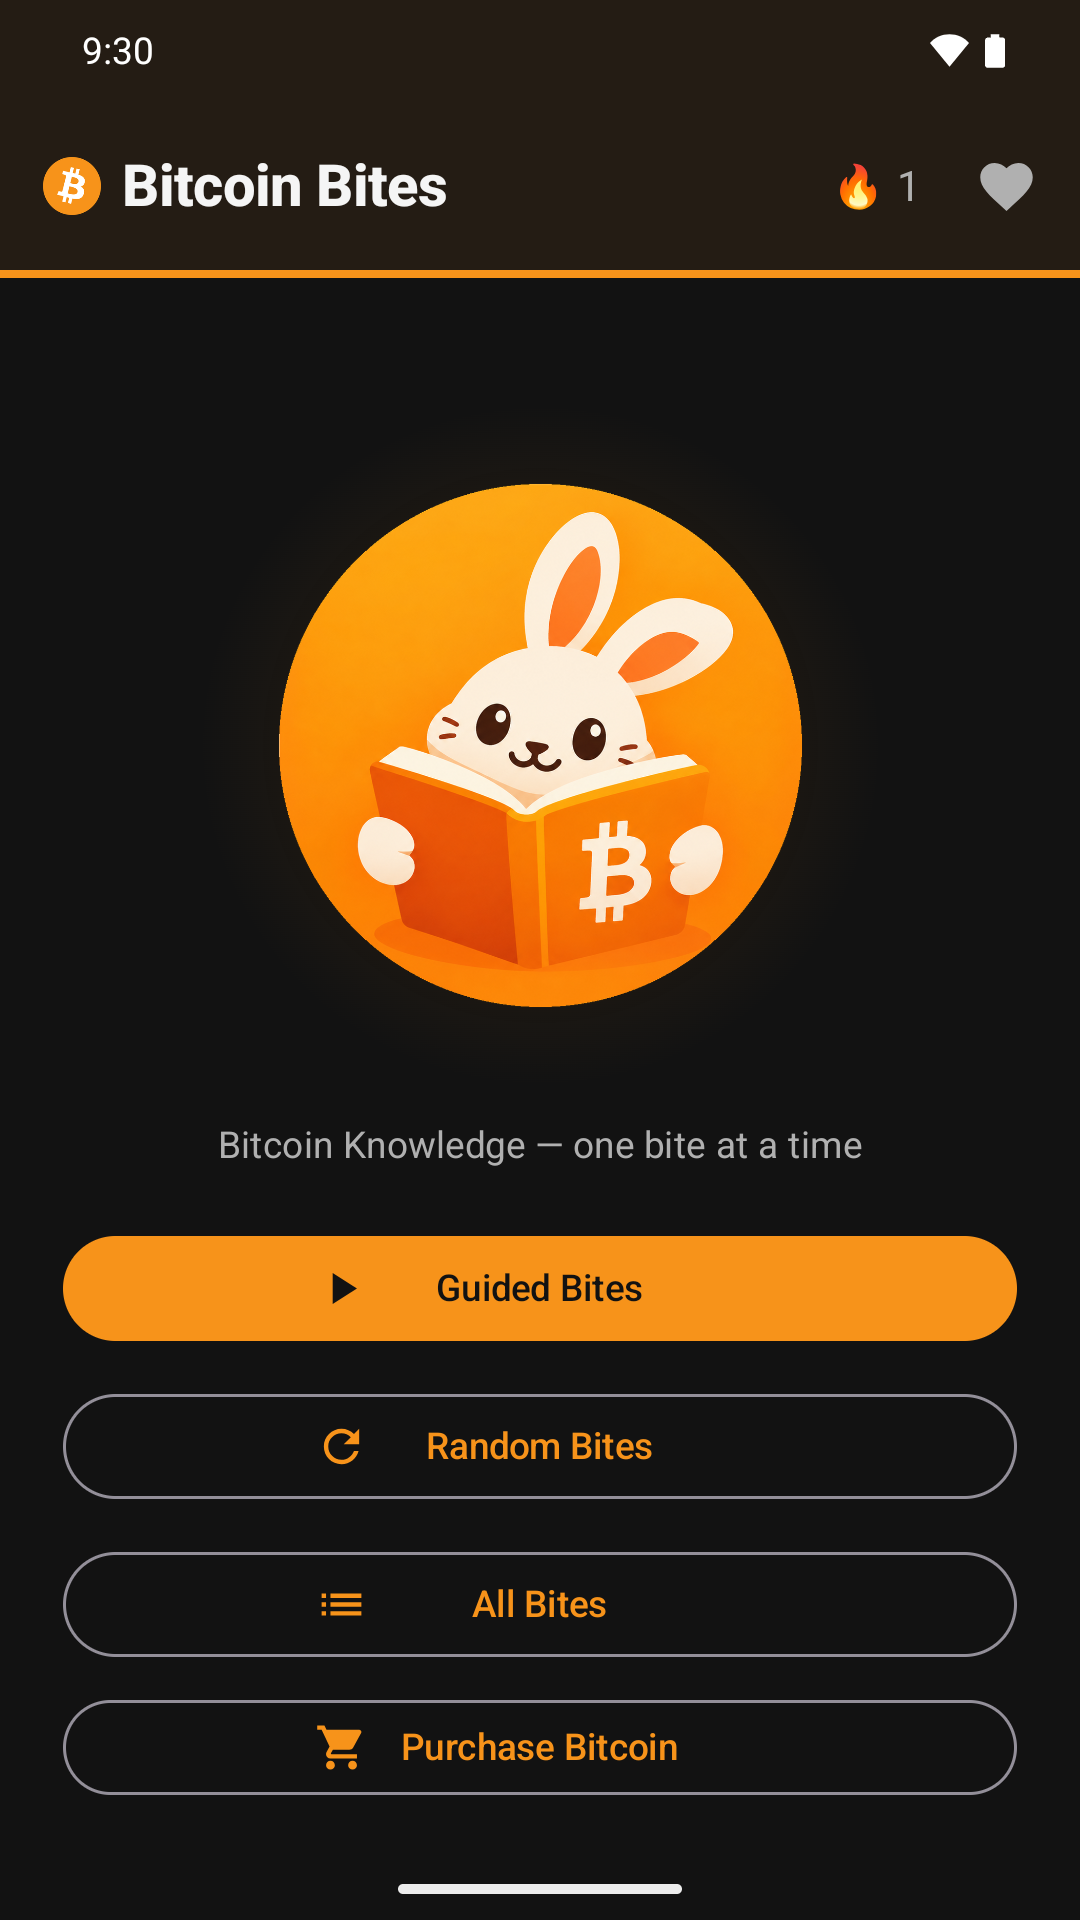
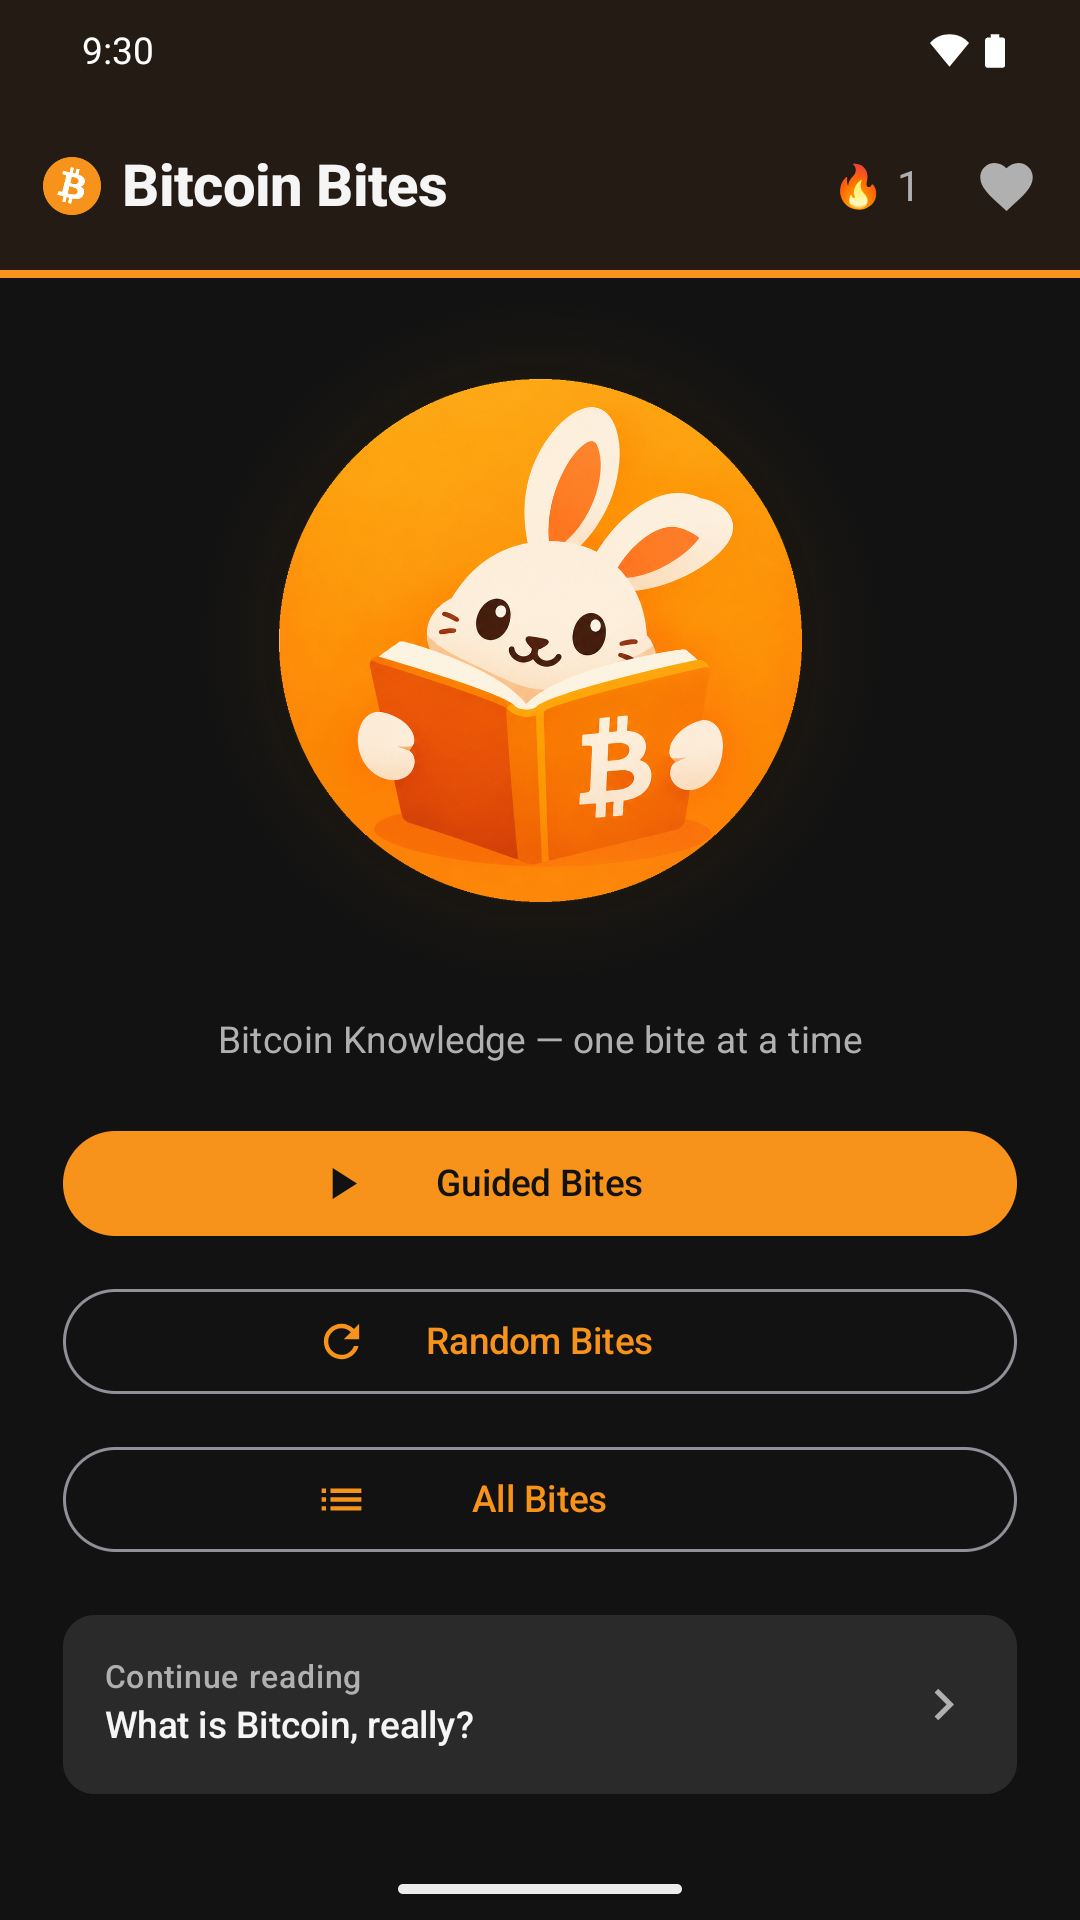
Remove the placeholder Purchase Bitcoin entry point; make home scroll
The home screen's "Purchase Bitcoin" button navigated to a screen
reading "Exchange links are coming soon." A prominent button leading
nowhere is squarely what Play's minimum-functionality policy rejects,
and the label invites financial-services scrutiny for a feature that
does nothing yet. Removed the button, its route and the screen rather
than leaving them unreachable; git has them for when the referral
links actually exist.

Removing it exposed a pre-existing bug: the home screen was a fixed
Column with no scrolling, so the "Continue reading" card was clipped
and unreachable on any viewport shorter than the content. It only
looked fine because the test emulator is unusually tall. With
minSdk 24 and display/font scaling, plenty of real devices would hit
it. Made the column scrollable.

Retook the home screenshot to match.

Changed region(s): [[0.0611, 0.1875, 0.9472, 0.9375], [0.9167, 0.8125, 0.9472, 0.8438], [0.8556, 0.875, 0.8861, 0.9062]]

diff --git a/androidApp/src/main/kotlin/dev/emmett/bitcoinfacts/android/ui/HomeScreen.kt b/androidApp/src/main/kotlin/dev/emmett/bitcoinfacts/android/ui/HomeScreen.kt
@@ -16,14 +16,15 @@ import androidx.compose.foundation.layout.height
 import androidx.compose.foundation.layout.padding
 import androidx.compose.foundation.layout.size
 import androidx.compose.foundation.layout.width
+import androidx.compose.foundation.rememberScrollState
 import androidx.compose.foundation.shape.RoundedCornerShape
+import androidx.compose.foundation.verticalScroll
 import androidx.compose.material.icons.Icons
 import androidx.compose.material.icons.filled.Favorite
 import androidx.compose.material.icons.filled.KeyboardArrowRight
 import androidx.compose.material.icons.filled.List
 import androidx.compose.material.icons.filled.PlayArrow
 import androidx.compose.material.icons.filled.Refresh
-import androidx.compose.material.icons.filled.ShoppingCart
 import androidx.compose.material3.Button
 import androidx.compose.material3.ExperimentalMaterial3Api
 import androidx.compose.material3.Icon
@@ -56,9 +57,8 @@ import dev.emmett.bitcoinfacts.shared.history.JourneyMode
  * Task 12.1: new nav-graph start destination, offering "Guided Bites" (an
  * unfiltered swipeable journey in canonical `order` - the order facts were
  * authored in, chapter by chapter), "Random Bites" (the same swipeable
- * journey, shuffled), "All Bites" (the existing list screen), and "Purchase
- * Bitcoin" (a placeholder page for exchange referral links, added later) as
- * distinct entry points, in that display order.
+ * journey, shuffled) and "All Bites" (the existing list screen) as distinct
+ * entry points, in that display order.
  */
 @OptIn(ExperimentalMaterial3Api::class)
 @Composable
@@ -69,7 +69,6 @@ fun HomeScreen(
     onGuidedJourney: () -> Unit,
     onRandomJourney: () -> Unit,
     onOpenFavorites: () -> Unit,
-    onPurchaseBitcoin: () -> Unit,
 ) {
     val continueFact = remember {
         container.journeyProgressStore.lastFactId(JourneyMode.GUIDED)?.let { container.factRepository.findById(it) }
@@ -94,6 +93,10 @@ fun HomeScreen(
             modifier = Modifier
                 .fillMaxSize()
                 .padding(padding)
+                // The mascot plus four entry points overflow a short screen (or a
+                // normal one at a large display/font scale), which silently cut off
+                // the "Continue reading" card with no way to reach it.
+                .verticalScroll(rememberScrollState())
                 .padding(24.dp),
             verticalArrangement = Arrangement.Top,
             horizontalAlignment = Alignment.CenterHorizontally,
@@ -124,10 +127,6 @@ fun HomeScreen(
             Spacer(modifier = Modifier.height(12.dp))
             OutlinedButton(onClick = onBrowseAll, modifier = Modifier.fillMaxWidth()) {
                 HomeButtonContent(Icons.Filled.List, "All Bites")
-            }
-            Spacer(modifier = Modifier.height(12.dp))
-            OutlinedButton(onClick = onPurchaseBitcoin, modifier = Modifier.fillMaxWidth()) {
-                HomeButtonContent(Icons.Filled.ShoppingCart, "Purchase Bitcoin")
             }
 
             if (continueFact != null) {

diff --git a/androidApp/src/main/kotlin/dev/emmett/bitcoinfacts/android/MainActivity.kt b/androidApp/src/main/kotlin/dev/emmett/bitcoinfacts/android/MainActivity.kt
@@ -27,7 +27,6 @@ import dev.emmett.bitcoinfacts.android.ui.FactListScreen
 import dev.emmett.bitcoinfacts.android.ui.FavoritesScreen
 import dev.emmett.bitcoinfacts.android.ui.HomeScreen
 import dev.emmett.bitcoinfacts.android.ui.JourneyScreen
-import dev.emmett.bitcoinfacts.android.ui.PurchaseBitcoinScreen
 import dev.emmett.bitcoinfacts.android.ui.theme.BitcoinFactsTheme
 import dev.emmett.bitcoinfacts.shared.history.JourneyMode
 import dev.emmett.bitcoinfacts.taxonomy.Category
@@ -37,7 +36,6 @@ private const val ROUTE_LIST = "list"
 private const val ROUTE_FAVORITES = "favorites"
 private const val ROUTE_DETAIL = "detail/{factId}"
 private const val ROUTE_JOURNEY = "journey"
-private const val ROUTE_PURCHASE = "purchase"
 
 class MainActivity : ComponentActivity() {
 
@@ -131,7 +129,6 @@ private fun BitcoinFactsNavHost(container: AppContainer, deepLinkFactId: String?
                     navController.navigate(ROUTE_JOURNEY)
                 },
                 onOpenFavorites = { navController.navigate(ROUTE_FAVORITES) },
-                onPurchaseBitcoin = { navController.navigate(ROUTE_PURCHASE) },
             )
         }
         composable(ROUTE_LIST) {
@@ -189,9 +186,6 @@ private fun BitcoinFactsNavHost(container: AppContainer, deepLinkFactId: String?
                 onBack = { navController.popBackStack() },
                 onFactClick = { factId -> navController.navigate("detail/$factId") },
             )
-        }
-        composable(ROUTE_PURCHASE) {
-            PurchaseBitcoinScreen(onBack = { navController.popBackStack() })
         }
     }
 }
